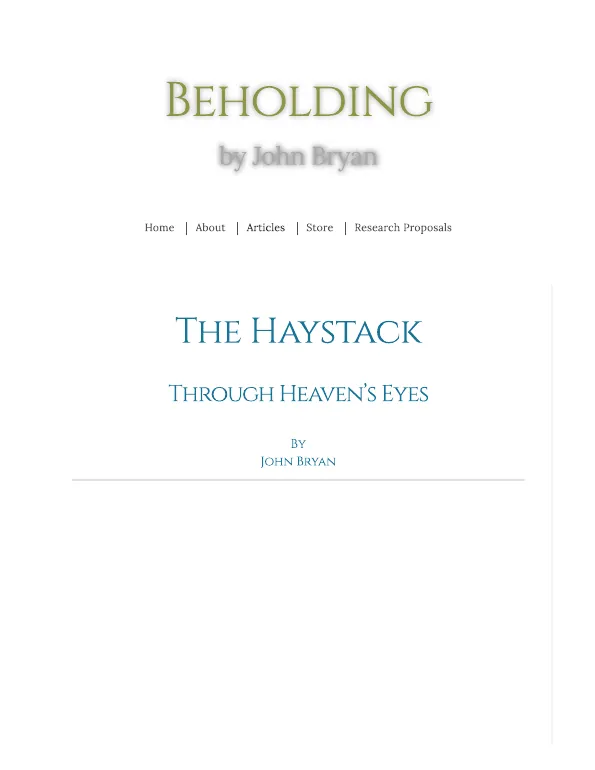
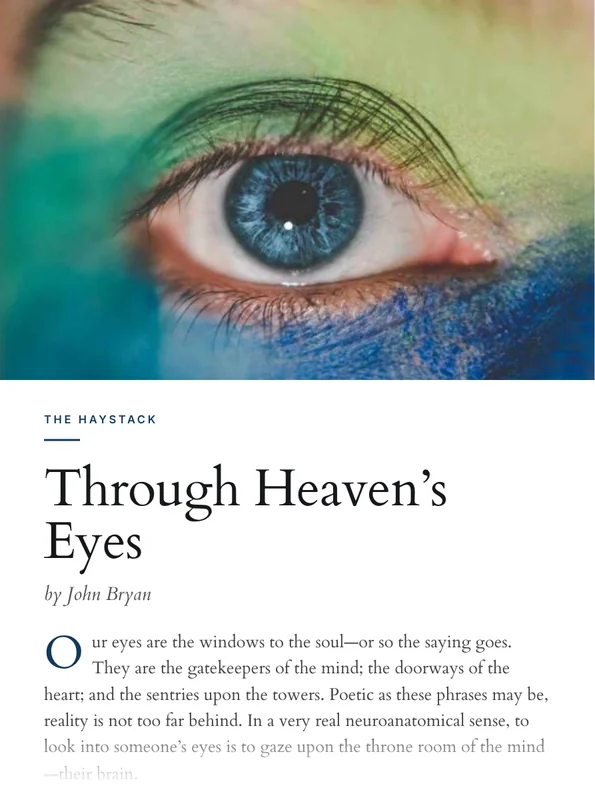
Designed covers for web-published articles (no site chrome or ads)
Claude-Session: https://claude.ai/code/session_01HwViuiWex7zkheWP3UABUj

diff --git a/index.html b/index.html
@@ -9,8 +9,8 @@
   <link rel="preconnect" href="https://fonts.googleapis.com">
   <link rel="preconnect" href="https://fonts.gstatic.com" crossorigin>
   <link href="https://fonts.googleapis.com/css2?family=Albert+Sans:wght@400;600&family=Cardo:ital,wght@0,400;0,700;1,400&family=Inter:wght@300;400;500;600;700&family=Newsreader:opsz,wght@6..72,400;6..72,500;6..72,600&display=swap" rel="stylesheet">
-  <link rel="stylesheet" href="assets/css/style.css?v=31">
-  <link rel="stylesheet" href="assets/css/home.css?v=31">
+  <link rel="stylesheet" href="assets/css/style.css?v=32">
+  <link rel="stylesheet" href="assets/css/home.css?v=32">
 </head>
 <body class="home" id="top">
   <a class="skip" href="#main">Skip to content</a>
@@ -554,7 +554,7 @@
           </div>
           <div class="articles">
             <a class="article" href="assets/docs/articles/the-haystack-beholding.pdf" target="_blank" rel="noopener">
-              <img src="assets/img/article-the-haystack-beholding.webp" alt="First page of “Beholding” in The Haystack" loading="lazy">
+              <img src="assets/img/article-the-haystack-beholding.webp" alt="Cover for “Beholding” (Through Heaven’s Eyes) in The Haystack" loading="lazy">
               <span class="a-meta">The Haystack</span>
               <span class="a-title">Beholding</span>
               <span class="a-read">Read the article (PDF) ↗</span>
@@ -910,6 +910,6 @@
     </div>
 
   </main>
-  <script src="assets/js/site.js?v=31"></script>
+  <script src="assets/js/site.js?v=32"></script>
 </body>
 </html>

diff --git a/CLAUDE.md b/CLAUDE.md
@@ -26,3 +26,4 @@
 - Ad reaction rows are kept only where the screenshot actually shows them (Medical Technologist: 15, Soin nurses: 26). Never copy engagement numbers between posts.
 - Andrews email results come from Bryan's Mailchimp reports (Jan 2023): previous writer's Jan 6 sends vs his Jan 19 '1st Reminder' sends. Shown as the `.ba` before/after chart (one measure per chart, grey = before, navy = after, with table view). The Mailchimp screenshots themselves are intentionally NOT on the site.
 - Logo: inline SVG architectural "B" (refined from Bryan's original logo: heavy stem, hairlines, open counters) + letterspaced "BRYAN RIVERA" in Cardo (`.brand` in style.css); favicon `assets/img/favicon.svg` is the same mark. Header nav (right): Home, Work, Contact.
+- Article thumbnails for web-published pieces (Turtles, Feeling of Awe, Beholding) are designed covers: the article hero photo + outlet kicker + title + byline + the verbatim opening lines. Never paraphrase or invent teaser text. Print-layout covers (71.5, Truth and Lies) and Menswear Style captures are used as-is.
